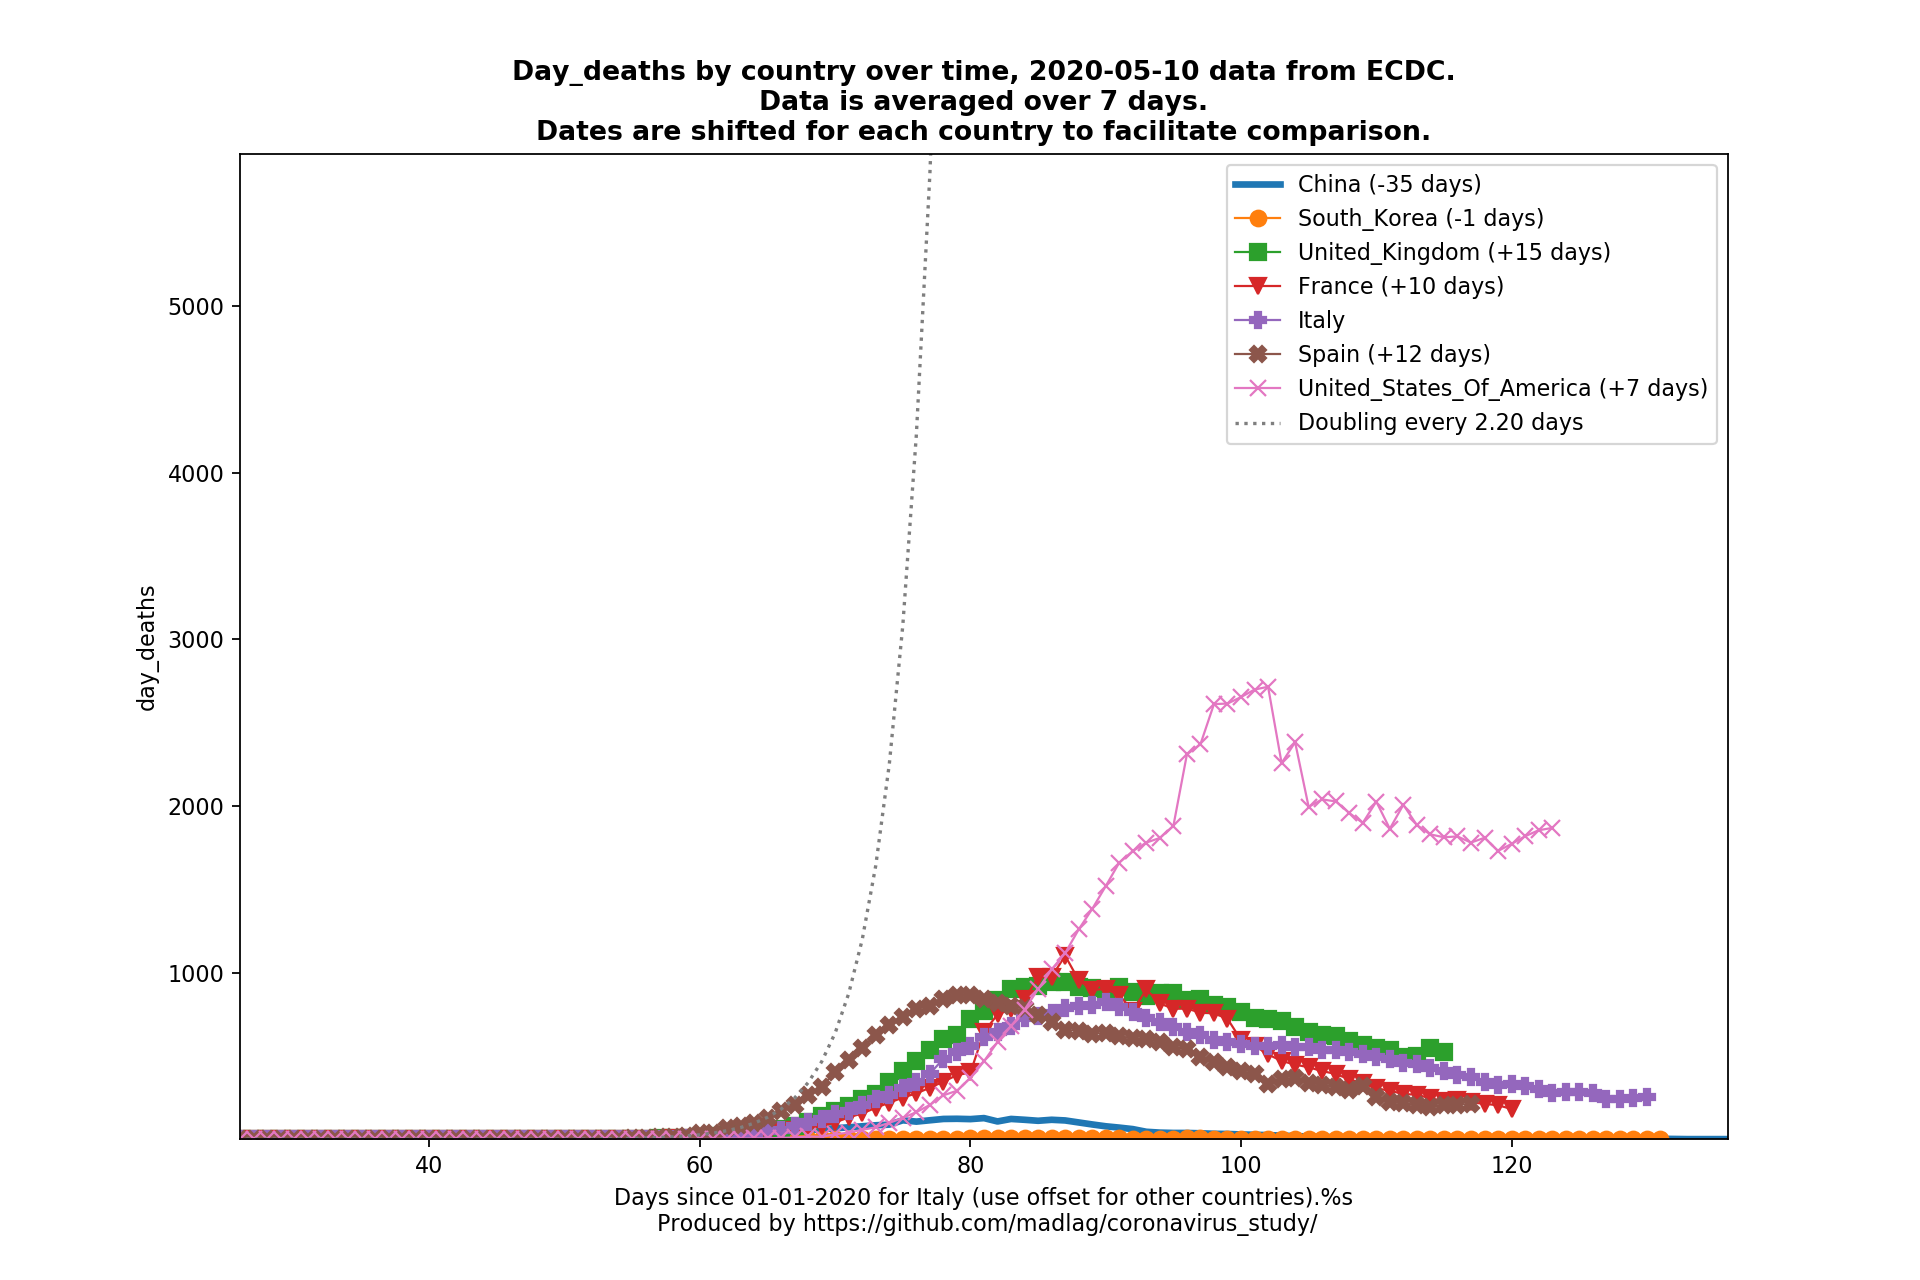
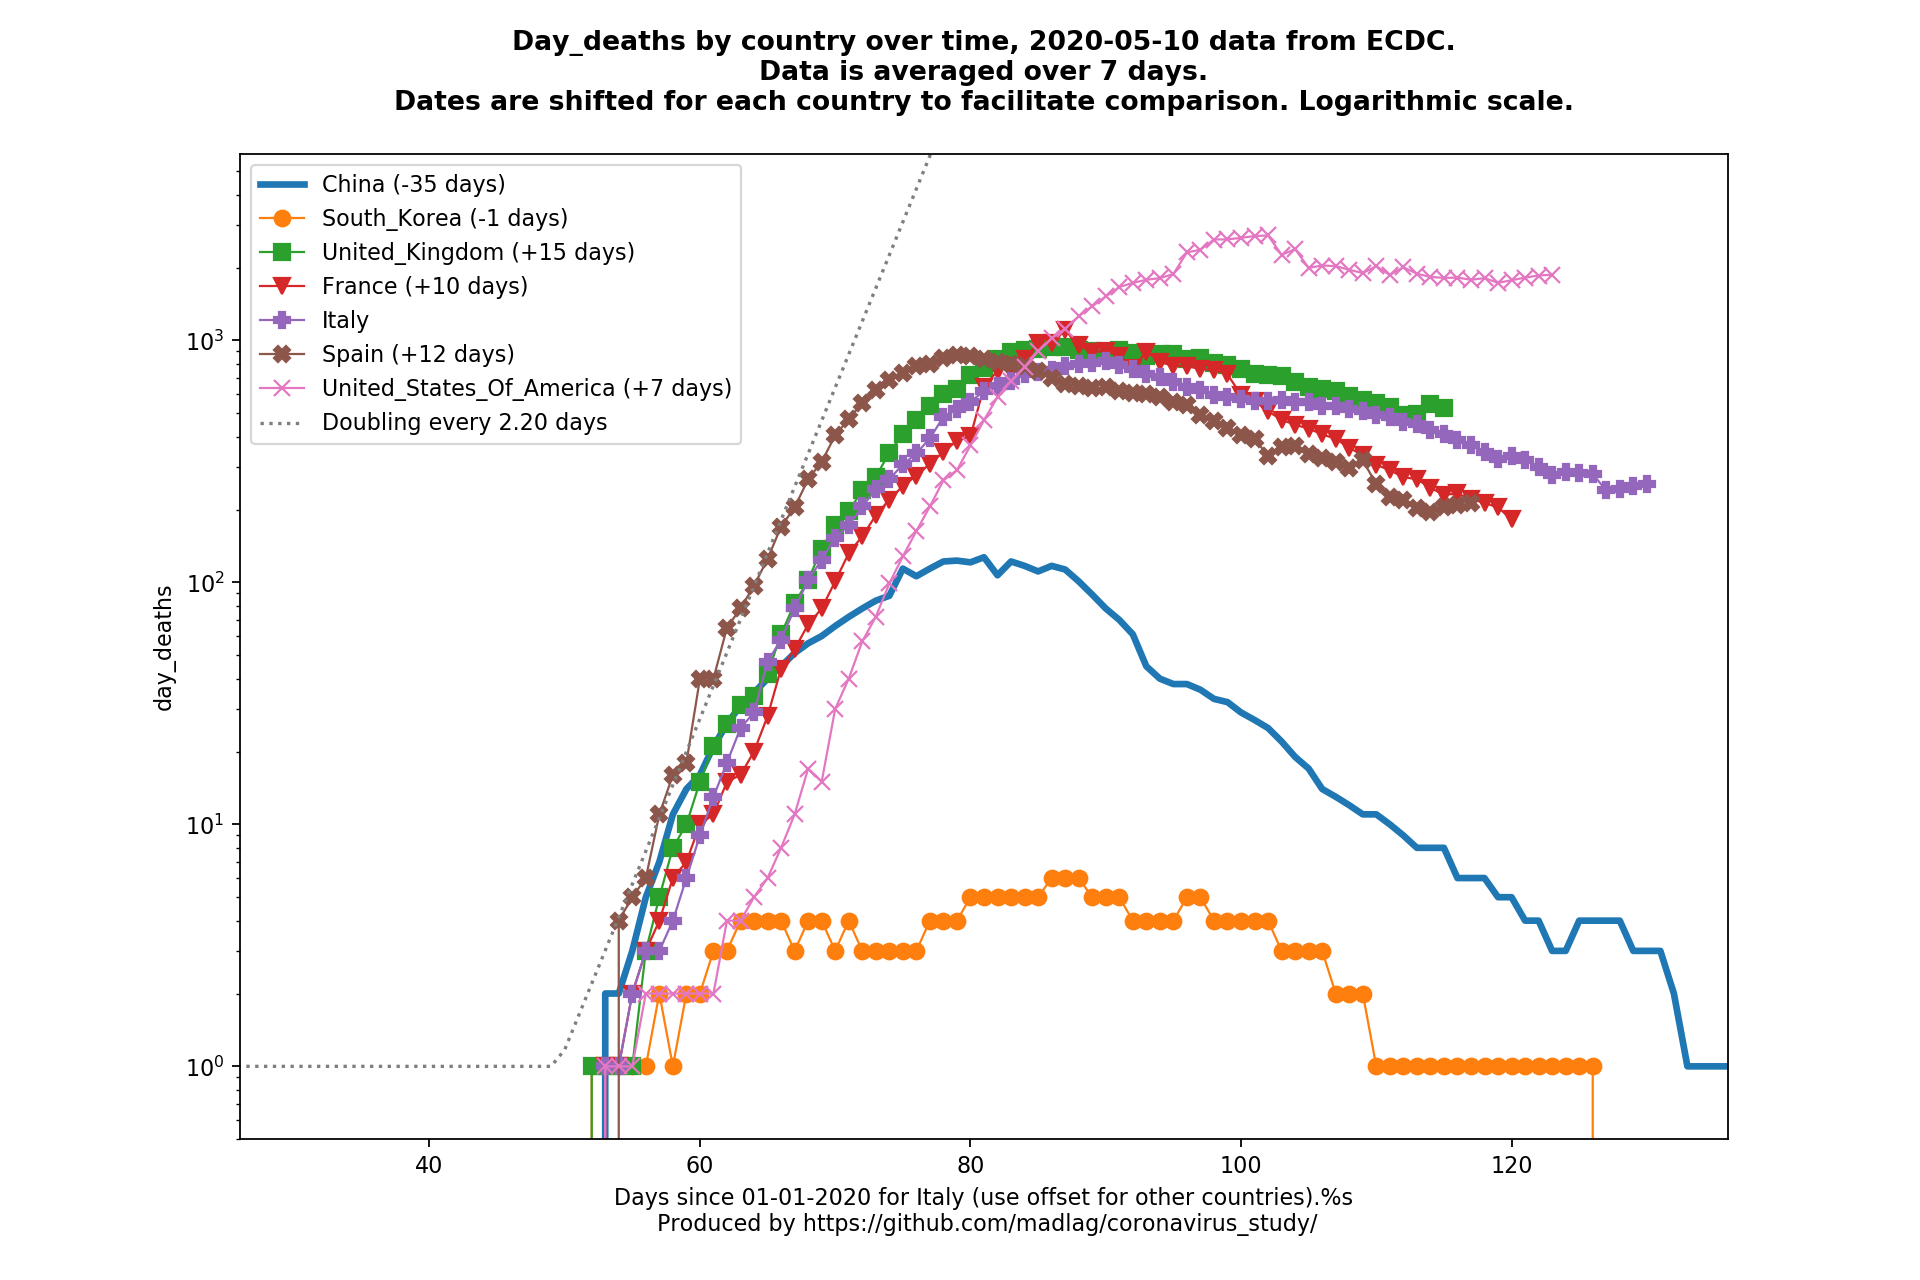
Switched back to logarithmic scale.

diff --git a/notebooks/tools.py b/notebooks/tools.py
@@ -318,6 +318,10 @@ class CountryGraph:
         
         if self.log_axis:
             plt.yscale("log")
+        else:
+            print("linear")
+            plt.yscale("linear")
+
         label = self.country 
         offset = self.offset
         if offset != 0:
@@ -513,7 +517,7 @@ def run():
             g = MultiCountryGraph(data_provider,
                                   country_info_store,
                                    main_chart_countries,
-                                  log_axis = False,
+                                  log_axis = True,
                                   data_type = "day_deaths",
                                   visually_impaired = True,
                                   china_comparison = False,
@@ -551,7 +555,6 @@ def run():
                 if "day" in dt:
                     growth_reference = False
                     average_data_length = 7
-                    log_axis = False
 
                 g = MultiCountryGraph(data_provider,
                                       country_info_store,
